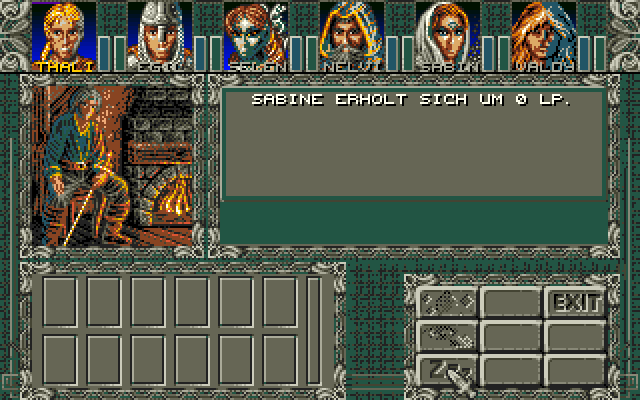
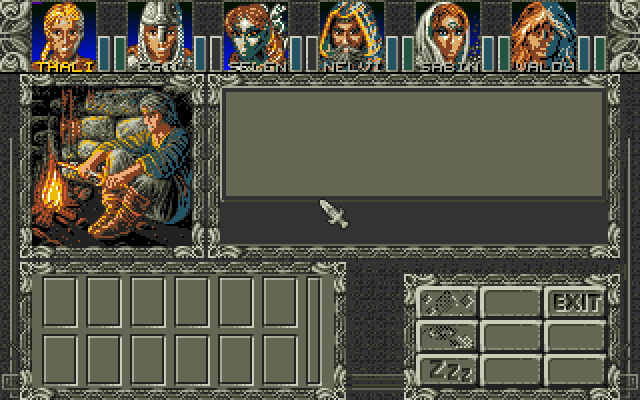
ST POC: grey layout background in the UI palettes
ST colour 8 (value 0 of the layouts) is a dark grey in the palettes of the
status block, the inventory and the character screen instead of colour 24
of Main_pal (dark green). Colour 24 itself (SP bar, portraits, items) takes
part in the k-means there and gets one of the chosen colours.

Claude-Session: https://claude.ai/code/session_017KUb8qa9fSBV81xJQCbgWy

diff --git a/AmbermoonST/tools/st_convert.py b/AmbermoonST/tools/st_convert.py
@@ -199,16 +199,26 @@ def st_graphic(pix, w, h):
     return bytes(out)
 
 
-def make_palette(palette, weights, ui_first=24, fixed=()):
+# Layout background (ST slot 8, value 0 of the layouts) in the UI palettes : a dark grey instead of colour 24 of
+# Main_pal ($254, a dark green). The graphics which use colour 24 themselves (SP bar, portraits, items) get the
+# nearest other slot (colour 24 is one of the colours of the k-means there).
+LAYOUT_GREY = (51, 51, 51)
+
+
+def make_palette(palette, weights, ui_first=24, fixed=(), grey=False):
     """16 colour palette with the slot layout described above. palette: 32 rgb, weights: 32 values.
     ui_first: first UI colour which gets a fixed slot (8 + colour - 24). In the map area colour 24 is not needed
     by the UI (value 0 of the layout and the buttons is drawn black), so slot 8 is another free slot there.
     fixed: colours which get the slots 1, 2, ... (e.g. white for the dragged items, see WHITE_SLOT).
+    grey: slot 8 is LAYOUT_GREY (see there).
     Returns (16 rgb, lookup table of 32 slots)."""
     ui = palette[ui_first:32]
+    if grey:
+        ui = [LAYOUT_GREY] + ui[1:]
     fix = [snap(palette[c], 4) for c in fixed]
-    points = [palette[i] for i in range(1, ui_first) if i not in fixed]
-    w = [math.sqrt(weights[i]) for i in range(1, ui_first) if i not in fixed]
+    own = [i for i in range(1, ui_first) if i not in fixed] + ([24] if grey else [])
+    points = [palette[i] for i in own]
+    w = [math.sqrt(weights[i]) for i in own]
     # k-means with the fixed and the UI colours fixed
     result = kmeans(points, w, fix + ui, 15, 4)
     free = result[len(fix) + len(ui):]
@@ -218,6 +228,9 @@ def make_palette(palette, weights, ui_first=24, fixed=()):
     for i in range(32):
         if i == 0:
             lut.append(0)
+        elif i == 24 and grey:
+            li = to_lab(palette[i])
+            lut.append(min((j for j in range(1, 16) if j != 8), key=lambda j: dist(li, labs[j])))
         elif i >= ui_first:
             lut.append(8 + i - 24)
         elif i in fixed:
@@ -414,7 +427,8 @@ def main():
     # (the skin tones need them). White is fixed anyway, Lighter_blue (names) is close to a UI grey.
     weights[16] += 500                     # Yellow (name of the active member)
     weights[6] += 4000                     # LP bar (7, 6) must differ from the SP bar (24, 23)
-    ui16, ui_lut = make_palette(main_pal, weights, fixed=WHITE)
+    weights[24] += 4000                    # (colour 24 needs an own slot, slot 8 is the layout grey)
+    ui16, ui_lut = make_palette(main_pal, weights, fixed=WHITE, grey=True)
     write('UIPAL.BIN', palette_file(ui16, ui_lut))
     write('PORTR.BIN', b''.join(st_graphic([ui_lut[v] for v in p], 32, 34) for p in portraits))
     write('NAMES.BIN', names)
@@ -436,7 +450,7 @@ def main():
         for v in p:
             weights[v] += portrait_weight
     weights[16] += 2000                    # text colour (Yellow)
-    inv16, inv_lut = make_palette(main_pal, weights, fixed=WHITE)
+    inv16, inv_lut = make_palette(main_pal, weights, fixed=WHITE, grey=True)
     write('INVPAL.BIN', palette_file(inv16, inv_lut))
     write('OBJICONS.BIN', b''.join(st_graphic([inv_lut[v] for v in ic], 16, 16) for ic in obj_icons))
     write('PORTRI.BIN', b''.join(st_graphic([inv_lut[v] for v in p], 32, 34) for p in portraits))
@@ -593,7 +607,7 @@ def main():
             weights[v] += 1
     for c in (4, 16, 22):
         weights[c] += 2000
-    chr16, chr_lut = make_palette(main_pal, weights, fixed=WHITE)
+    chr16, chr_lut = make_palette(main_pal, weights, fixed=WHITE, grey=True)
     write('CHARPAL.BIN', palette_file(chr16, chr_lut))
     write('PORTRC.BIN', b''.join(st_graphic([chr_lut[v] for v in p], 32, 34) for p in portraits))
     # the portraits of all party characters (joining) in the UI palette (PUI<n>.BIN) and in the character

diff --git a/AmbermoonST/README.md b/AmbermoonST/README.md
@@ -138,6 +138,11 @@ lists in `MODULES.S`): the status block (lines 0–36) uses the UI palette, the 
 For the status block, the colours of the LP bar (Amiga colours 7 and 6, blue) get their own ST colour, so
 that they stay different from the SP bar (24 and 23, green).
 
+In the palettes of the status block, the inventory and the character screen (`UIPAL`, `INVPAL`, `CHARPAL`),
+ST colour 8 is a dark grey ($333) instead of Amiga colour 24 (a dark green, $254): that is the background of
+the layouts (value 0), so the screens with layouts look grey. The graphics which use colour 24 themselves (the
+SP bar, portraits, items) get one of the chosen colours for it (it takes part in the k-means there).
+
 The Amiga version uses one palette for the status block, the items and the portraits, because items can be
 dragged onto the portraits. Here the inventory screen has its own palette below the status block, chosen for
 the items and the portraits (the portrait of the inventory member is shown there too), and a moved item is
